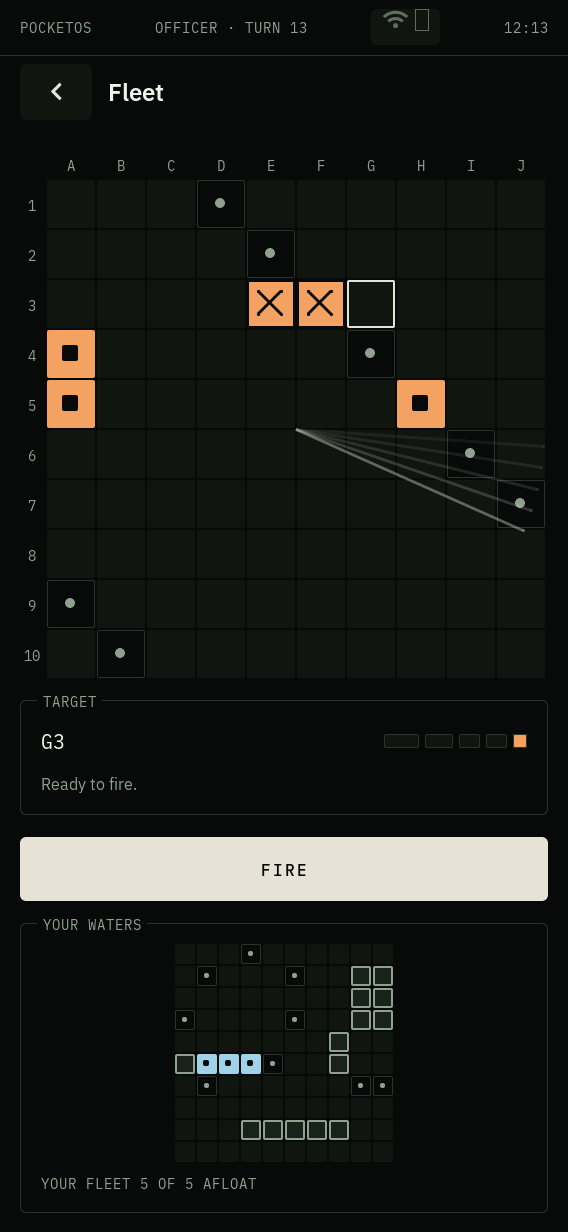
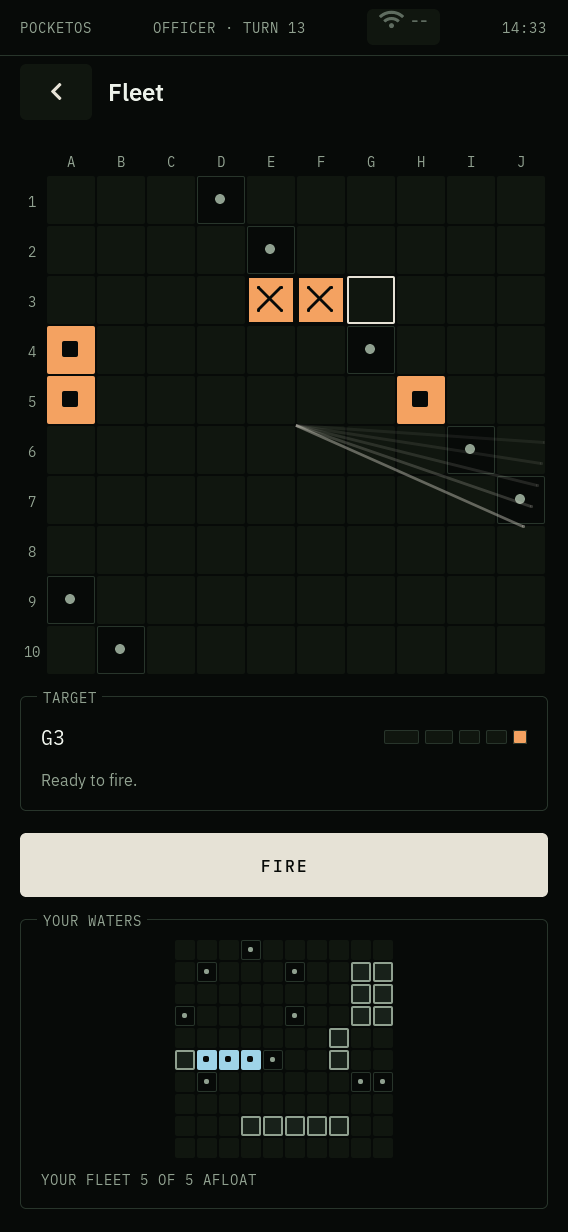
PocketFleet: adopt the hardened platform APIs after rebase
Integration only, no new game behaviour. Five app-local workarounds are gone
because master now supplies the thing they stood in for.

- pos_theme_watch(): the grids register with the theme engine instead of each
  subscribing to POS_EVENT_THEME_CHANGED. The app keeps the subscription as a
  fallback for a full watch table, which is the contract the function states.
- POS_STYLE_BUTTON_DISABLED: fleet_button_set_enabled() swaps the primary
  role for it. The disabled CONFIRM DEPLOYMENT is now visibly a disabled
  control rather than a secondary button, which was the ambiguity in the
  workaround: it sat directly under three real secondary buttons.
- POS_STYLE_HERO_40: the Result heading is at the size DS §3 asks for.
- pocketos_shell_reduced_motion(): replaces the app's own parsing of the
  settings key, so PocketFleet and the platform cannot disagree about what
  counts as reduced motion.
- POCKETUI_BODY_PAD_TOP: the shell pads the body to 24, so the app no longer
  adds 8 of its own to keep the first panel caption inside the scroll area.
- Header dependency generation supersedes the explicit FLEET_HDRS rule that
  P2 added after a stale test object smashed the stack.

One platform line changed with it: DEPFILES did not search apps/, so nothing
under apps/fleet was covered by the -include and dropping the explicit rule
would have quietly reinstated that bug. Adding apps to the find list is what
makes the platform mechanism reach the app tree; verified by touching
[…]

diff --git a/apps/fleet/fleet_app.c b/apps/fleet/fleet_app.c
@@ -13,7 +13,6 @@
 #include "engine/fleet_store.h"
 #include "pocketlog/pocketlog.h"
 #include "pocketui.h"
-#include "settings.h"
 #include "ui/fleet_view.h"
 
 #include <stdlib.h>
@@ -22,9 +21,6 @@
 
 /* Gap between panels (DS §7). */
 #define FLEET_PANEL_GAP 22
-/* The shell's body padding plus this is the DS body top padding of 24, and
- * it keeps the first panel's caption inside the scroll area. */
-#define FLEET_CAPTION_ROOM 8
 
 lv_obj_t *fleet_app_screen_container(lv_obj_t *parent)
 {
@@ -39,8 +35,6 @@ lv_obj_t *fleet_app_screen_container(lv_obj_t *parent)
     lv_obj_set_flex_align(screen, LV_FLEX_ALIGN_START, LV_FLEX_ALIGN_CENTER,
                           LV_FLEX_ALIGN_CENTER);
     lv_obj_set_style_pad_row(screen, FLEET_PANEL_GAP, 0);
-    /* Room for the first panel's caption, which straddles its top border. */
-    lv_obj_set_style_pad_top(screen, FLEET_CAPTION_ROOM, 0);
     lv_obj_remove_flag(screen, LV_OBJ_FLAG_SCROLLABLE);
     lv_obj_add_flag(screen, LV_OBJ_FLAG_HIDDEN);
     return screen;
@@ -256,15 +250,7 @@ static void *fleet_create(lv_obj_t *root)
     app->body = root;
     app->difficulty = FLEET_OFFICER;
     app->storage_ok = 1;
-    /* PocketOS has no platform-wide reduced-motion key yet, so PocketFleet
-     * reads the name the Design System uses and defaults to motion on. */
-    {
-        const char *reduced = settings_get("reduced_motion", "0");
-
-        app->reduced_motion = reduced && (*reduced == '1' || *reduced == 'y' ||
-                                          *reduced == 'Y' || *reduced == 't' ||
-                                          *reduced == 'T');
-    }
+    app->reduced_motion = (uint8_t)(pocketos_shell_reduced_motion() != 0);
     /* A match exists from the start so every screen has something to read. */
     fleet_game_new(&app->game, 1u, (enum fleet_difficulty)app->difficulty);
     /* Appearance of a stored match must never delay or prevent the app from

diff --git a/apps/fleet/ui/fleet_grid.c b/apps/fleet/ui/fleet_grid.c
@@ -426,8 +426,9 @@ static void grid_delete(lv_event_t *e)
     free(g);
 }
 
-/* The shared styles are rewritten in place on a theme change, which does not
- * invalidate a custom-drawn object by itself. */
+/* Fallback for when the engine's watch table is full: the shared styles are
+ * rewritten in place on a theme change, which does not invalidate a
+ * custom-drawn object by itself. */
 static void grid_theme_changed(lv_event_t *e)
 {
     lv_obj_invalidate(lv_event_get_target_obj(e));
@@ -460,8 +461,12 @@ lv_obj_t *fleet_grid_create(lv_obj_t *parent, enum fleet_grid_mode mode, int cel
     lv_obj_add_event_cb(obj, grid_draw, LV_EVENT_DRAW_MAIN, NULL);
     lv_obj_add_event_cb(obj, grid_click, LV_EVENT_CLICKED, NULL);
     lv_obj_add_event_cb(obj, grid_delete, LV_EVENT_DELETE, NULL);
-    lv_obj_add_event_cb(obj, grid_theme_changed, (lv_event_code_t)pos_event_theme_changed(),
-                        NULL);
+    /* The theme engine repaints registered custom-drawn objects itself; it
+     * only asks the caller to subscribe when its table is full. */
+    if (pos_theme_watch(obj) != 0) {
+        lv_obj_add_event_cb(obj, grid_theme_changed,
+                            (lv_event_code_t)pos_event_theme_changed(), NULL);
+    }
     return obj;
 }
 

diff --git a/apps/fleet/ui/fleet_widgets.c b/apps/fleet/ui/fleet_widgets.c
@@ -115,14 +115,12 @@ void fleet_button_set_enabled(lv_obj_t *button, int enabled)
         return;
     }
     if (enabled) {
-        lv_obj_remove_style(button, pos_style(POS_STYLE_BUTTON_SECONDARY), 0);
-        lv_obj_remove_style(button, pos_style(POS_STYLE_TEXT_MUTED), 0);
+        lv_obj_remove_style(button, pos_style(POS_STYLE_BUTTON_DISABLED), 0);
         pos_style_add(button, POS_STYLE_BUTTON_PRIMARY, 0);
         lv_obj_add_flag(button, LV_OBJ_FLAG_CLICKABLE);
     } else {
         lv_obj_remove_style(button, pos_style(POS_STYLE_BUTTON_PRIMARY), 0);
-        pos_style_add(button, POS_STYLE_BUTTON_SECONDARY, 0);
-        pos_style_add(button, POS_STYLE_TEXT_MUTED, 0);
+        pos_style_add(button, POS_STYLE_BUTTON_DISABLED, 0);
         lv_obj_remove_flag(button, LV_OBJ_FLAG_CLICKABLE);
     }
     /* The label carries only the button font, so it inherits the colour the

diff --git a/apps/fleet/ui/fleet_widgets.h b/apps/fleet/ui/fleet_widgets.h
@@ -28,9 +28,8 @@ lv_obj_t *fleet_button_secondary(lv_obj_t *parent, const char *text, lv_event_cb
 /* Half-width paired button inside a panel, 56 px (DS §7). Put two in a row. */
 lv_obj_t *fleet_button_paired(lv_obj_t *parent, const char *text, lv_event_cb_t cb,
                               void *user);
-/* Enable or disable a button made by pocketui_button(). PocketUI has no
- * disabled role style, so a disabled primary button is drawn as a secondary
- * one with muted text and is not clickable. */
+/* Enable or disable a button made by pocketui_button(): swaps the primary
+ * role for the Design System's disabled role and takes away the click. */
 void fleet_button_set_enabled(lv_obj_t *button, int enabled);
 
 /* Segmented control (DS §9): count segments, 56 px tall, 4 px apart. The

diff --git a/apps/fleet/ui/fleet_screen_result.c b/apps/fleet/ui/fleet_screen_result.c
@@ -45,9 +45,8 @@ lv_obj_t *fleet_screen_result_create(struct fleet_app *app, lv_obj_t *parent)
     app->result = ui;
     screen = fleet_app_screen_container(parent);
 
-    /* PocketUI has no hero type role yet (DS §3 hero-40/48 is a later step),
-     * so the outcome uses the app-title role. */
-    ui->heading = pocketui_label(screen, "", POS_STYLE_TITLE);
+    /* DS §3 hero-40, the size the outcome of an engagement calls for. */
+    ui->heading = pocketui_label(screen, "", POS_STYLE_HERO_40);
     lv_label_set_long_mode(ui->heading, LV_LABEL_LONG_WRAP);
     lv_obj_set_width(ui->heading, LV_PCT(100));
 

diff --git a/docs/apps/POCKETFLEET.md b/docs/apps/POCKETFLEET.md
@@ -69,19 +69,15 @@ short non-secret preferences rather than game state. PocketFleet writes
 `/var/lib` is writable on the K230 is DOCUMENTED from the Buildroot
 defconfig and remains ASSUMED until hardware confirms it.
 
-### D3 — no hero type on the Result screen
+### D3 — no hero type on the Result screen (WITHDRAWN 2026-09-05)
 
-DS §3 specifies hero-40 for an outcome heading. The 40 px and 48 px faces are
-compiled into the shell but have no role in `pos_styles.h`, and an app may
-not name a font symbol (`tests/style_lint.sh`). The heading uses the
-app-title role instead. Cosmetic; it resolves when PocketUI gains the role.
+Superseded by the platform: `POS_STYLE_HERO_40` exists, and the Result
+heading uses it.
 
-### D4 — disabled buttons are drawn as secondary
+### D4 — disabled buttons are drawn as secondary (WITHDRAWN 2026-09-05)
 
-`POS_COLOR_DISABLED_FG` and `_BG` exist as tokens but have no role style. A
-disabled primary button is therefore drawn with the secondary button role
-and muted text, and is not clickable. Cosmetic; it resolves when PocketUI
-gains a disabled role.
+Superseded by the platform: `POS_STYLE_BUTTON_DISABLED` exists, and
+`fleet_button_set_enabled()` swaps the primary role for it.
 
 ### D5 — own hulls are outlined, not filled
 
@@ -170,10 +166,16 @@ FIRE is simply not armed while the enemy is firing. Leaving the screen or
 closing the app settles a pending reply at once, so a turn is never left
 half played. Only the grid is invalidated, never the screen.
 
-With `reduced_motion` set in the settings store there is no sweep, no ring
-and no pause: the whole exchange is one instant state change (DS §12).
-PocketOS has no platform-wide key for this yet, so PocketFleet reads the
-name the Design System uses and defaults to motion on.
+With reduced motion there is no sweep, no ring and no pause: the whole
+exchange is one instant state change (DS §12). The preference comes from the
+platform accessor `pocketos_shell_reduced_motion()`, read once when the app
+opens.
+
+The grids are registered with `pos_theme_watch()`, so the theme engine
+repaints them on a theme or mode change; a custom-drawn object is not
+covered by `lv_obj_report_style_change`. The app falls back to subscribing
+to `pos_event_theme_changed()` itself if the engine's watch table is full,
+which is the contract that function documents.
 
 ## Development aid
 
